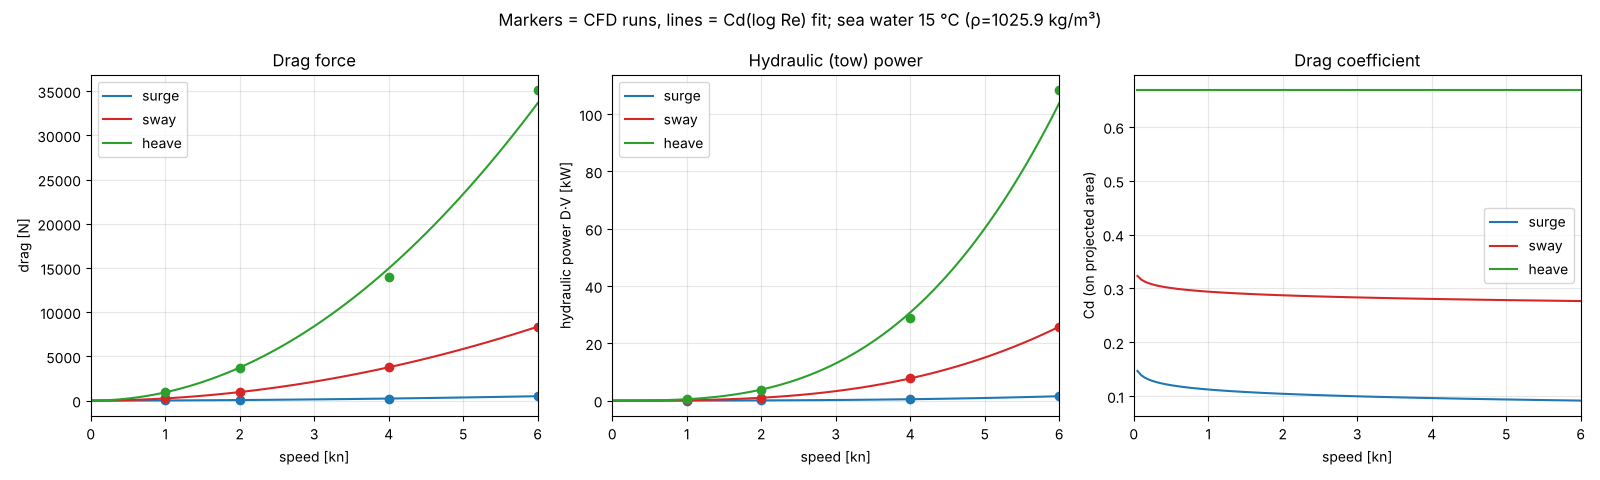
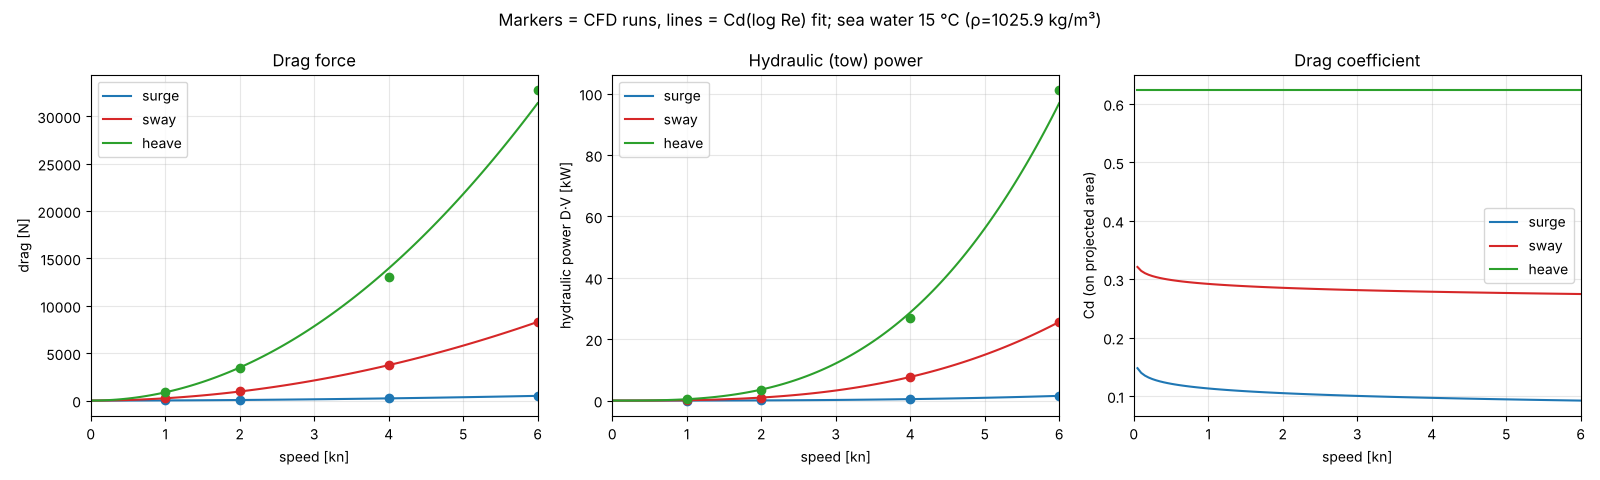
Add heave medium-mesh result; grid correction against fitted coarse Cd
Claude-Session: https://claude.ai/code/session_018pjspvFRaQcFFe247BRNgP

diff --git a/scripts/postprocess.py b/scripts/postprocess.py
@@ -67,8 +67,8 @@ def main():
         else:
             c1, c0 = np.polyfit(lr, cd, 1)
         med = [r for r in rows if r['axis'] == ax and r['mesh'] == 'medium' and r['kn'] == 6]
-        c6 = [r for r in pr if r['kn'] == 6]
-        corr = med[0]['D'] / c6[0]['D'] if med and c6 else 1.0
+        # grid correction = medium-mesh Cd / coarse-mesh fitted Cd, both at 6 kn
+        corr = med[0]['Cd'] / (c0 + c1 * np.log10(med[0]['Re'])) if med else 1.0
         table[ax] = dict(fit=(c0, c1), corr=corr, cd_min=float(cd.min()), cd_max=float(cd.max()), A=pr[0]['A'], L=pr[0]['Re'] * 1.1883e-6 / pr[0]['V'],
                          pts=[(r['kn'], r['D'] * corr, r['P'] * corr) for r in pr])
     kns = np.round(np.arange(0.5, 6.01, 0.5), 2)
